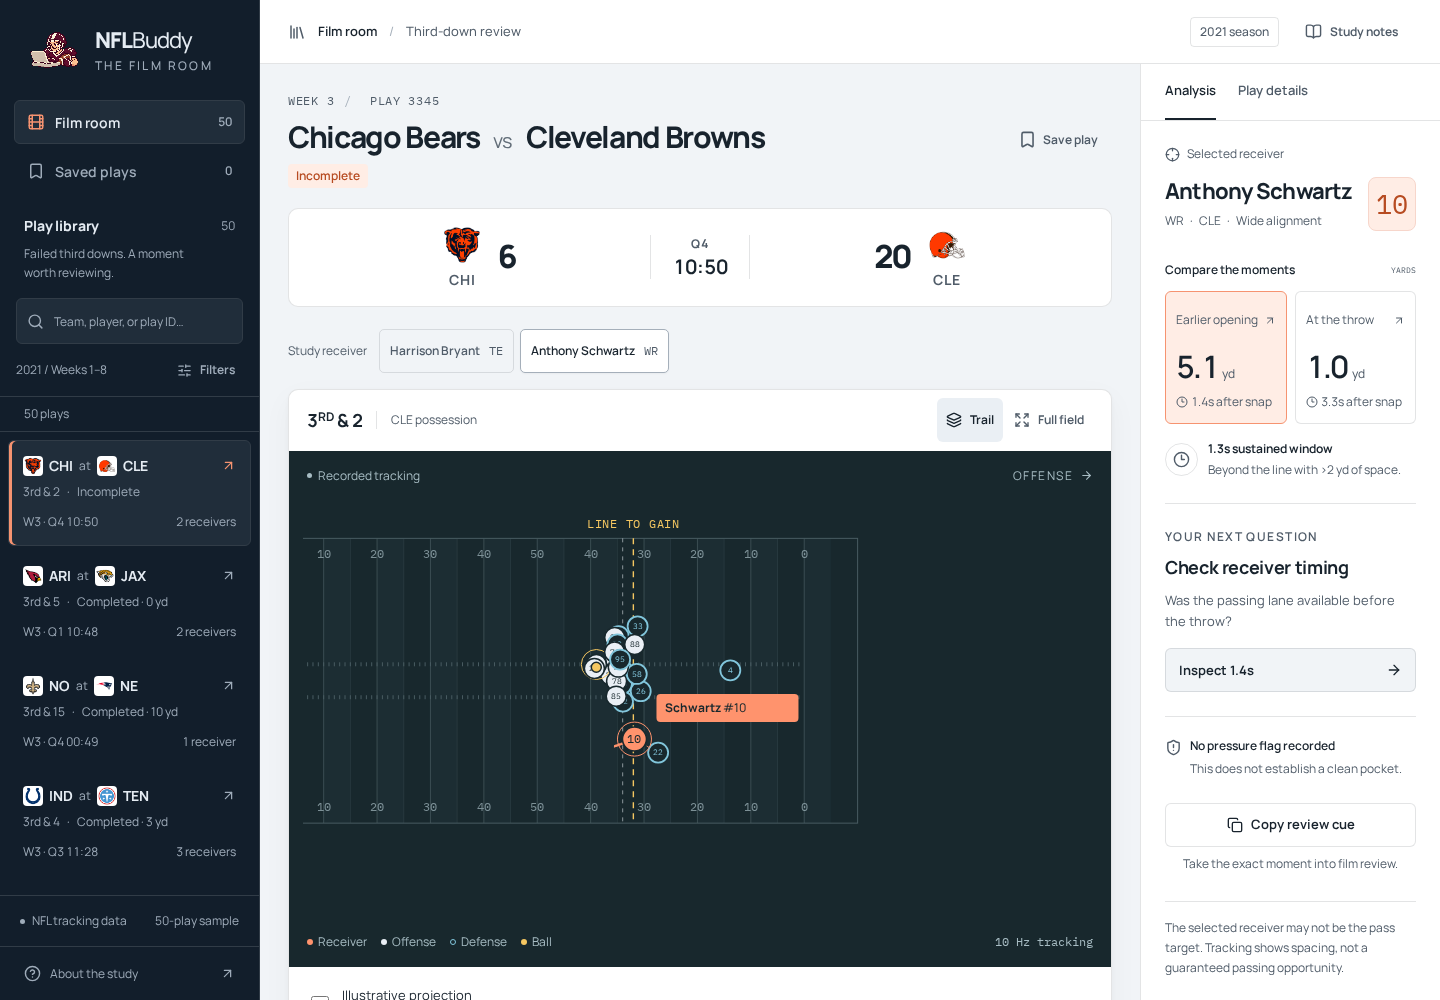
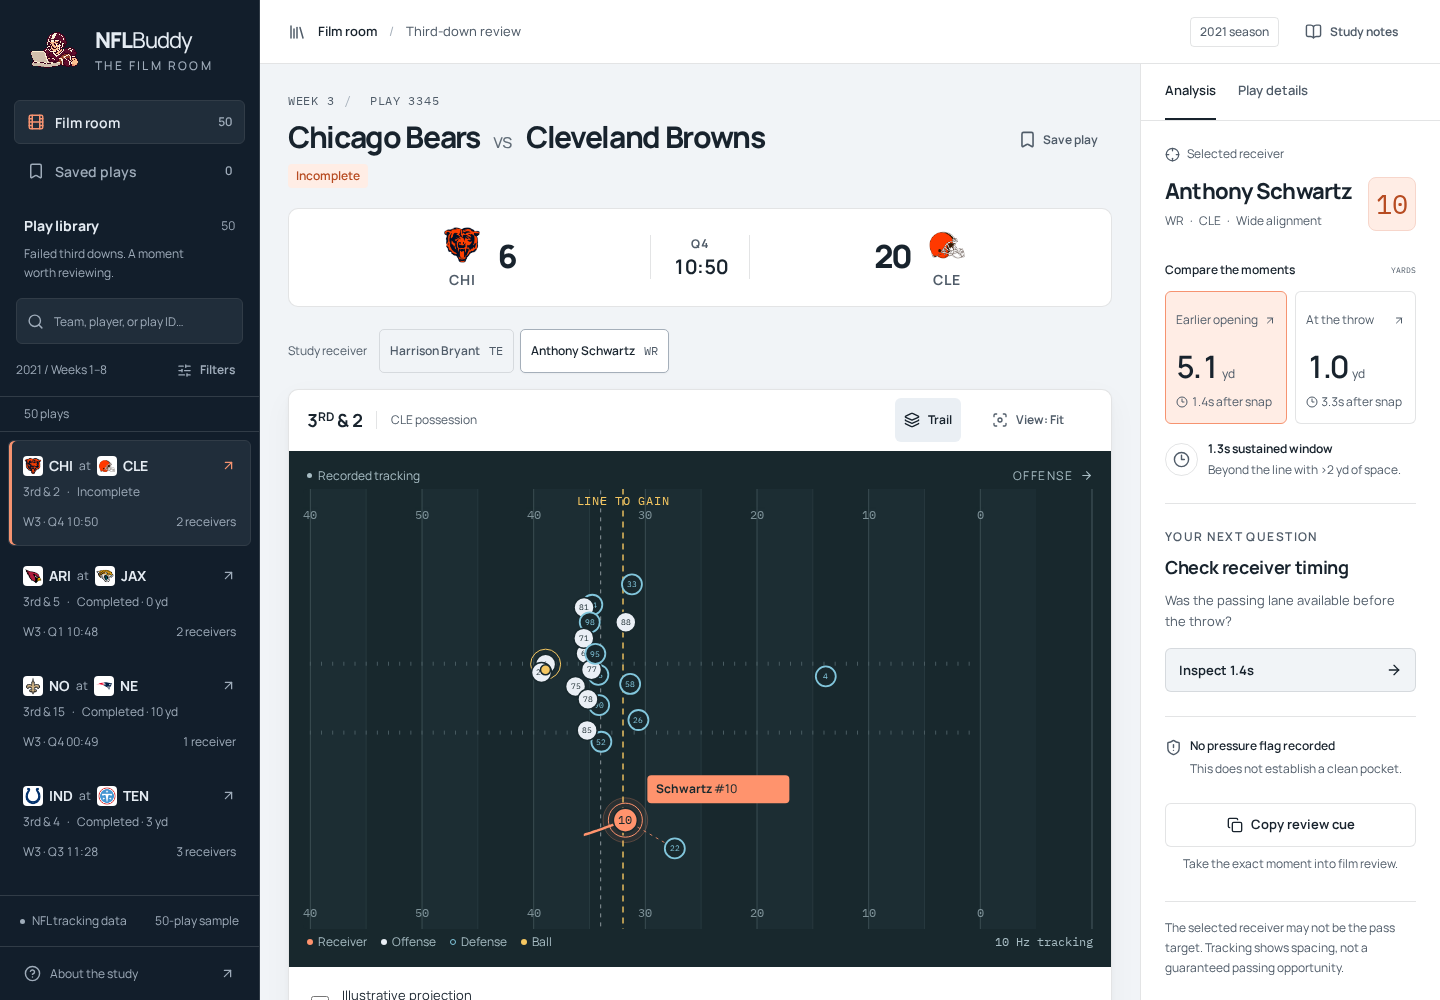
Tighten fitted replay camera and clarify single view toggle

Changed region(s): [[0.3438, 0.589, 0.5625, 0.868], [0.4062, 0.496, 0.4688, 0.589], [0.625, 0.403, 0.75, 0.434]]

diff --git a/web/src/lib/replay.test.ts b/web/src/lib/replay.test.ts
@@ -12,6 +12,25 @@ const source=readFileSync(resolve(root,'scripts/report_client.js'),'utf8');
 const legacy=vm.createContext({recordedCache:new Map()});
 vm.runInContext(source.slice(source.indexOf('function recordedFrames'),source.indexOf('function drawFlight')),legacy);
 describe('tracking and projection migration',()=>{
+ it('fits every recorded player and both situation lines across all 92 cues',()=>{
+   const ratios: number[]=[];
+   for(const replay of replays){
+     const points=recordedFrames(replay).flatMap(f=>f.players), bounds=fieldBounds(replay,false);
+     for(const point of points){expect(point.x).toBeGreaterThan(bounds.x0);expect(point.x).toBeLessThan(bounds.x1);expect(point.y).toBeGreaterThan(bounds.y0);expect(point.y).toBeLessThan(bounds.y1);}
+     for(const x of [replay.line_of_scrimmage,replay.situation.line_to_gain]){expect(x).toBeGreaterThan(bounds.x0);expect(x).toBeLessThan(bounds.x1);}
+     const projection=projectionAt(replay,endTime(replay));
+     const oldPoints=[...points,...(projection?[...projection.sector,projection.projectedReceiver]:[]),{x:replay.line_of_scrimmage,y:0},{x:replay.situation.line_to_gain,y:160/3}];
+     const oldX=Math.max(...oldPoints.map(p=>p.x))-Math.min(...oldPoints.map(p=>p.x))+10;
+     const oldY=Math.max(...oldPoints.map(p=>p.y))-Math.min(...oldPoints.map(p=>p.y))+8;
+     for(const [w,h] of [[750,470],[366,330],[296,330]]){
+       const pad=w<500?36:70;
+       const before=Math.min((w-pad)/oldX,(h-56)/oldY),after=Math.min((w-pad)/(bounds.x1-bounds.x0),(h-56)/(bounds.y1-bounds.y0));
+       expect(after).toBeGreaterThanOrEqual(before-1e-9);ratios.push(after/before);
+     }
+   }
+   ratios.sort((a,b)=>a-b);console.log('Camera scale improvement across 92 cues × 3 sizes:',{minimum:ratios[0],median:ratios[Math.floor(ratios.length/2)],maximum:ratios.at(-1)});
+ });
+
  it('matches the established projection model for all 92 receiver cues',()=>{
    expect(replays).toHaveLength(92);
    for(const replay of replays){
@@ -43,7 +62,7 @@ describe('tracking and projection migration',()=>{
    expect(endTime(replay)).toBe(recordedFrames(replay).at(-1)!.t);
  });
  it('reserves camera bounds for the entire projection in advance',()=>{
-   for(const replay of replays){const bounds=fieldBounds(replay,false),p=projectionAt(replay,endTime(replay));if(!p)continue;
+   for(const replay of replays){const bounds=fieldBounds(replay,false,true),p=projectionAt(replay,endTime(replay));if(!p)continue;
      for(const point of [...p.sector,p.projectedReceiver]){expect(point.x).toBeGreaterThan(bounds.x0);expect(point.x).toBeLessThan(bounds.x1);expect(point.y).toBeGreaterThan(bounds.y0);expect(point.y).toBeLessThan(bounds.y1)}
    }
  });

diff --git a/web/src/components/Field.tsx b/web/src/components/Field.tsx
@@ -7,12 +7,14 @@ export default function Field({
   time,
   full,
   trails,
+  projectionEnabled,
 }: {
   replay: Replay;
   frame: Frame;
   time: number;
   full: boolean;
   trails: boolean;
+  projectionEnabled: boolean;
 }) {
   const clipId = useId().replaceAll(":", "");
   const ref = useRef<SVGSVGElement>(null);
@@ -29,7 +31,10 @@ export default function Field({
     observer.observe(ref.current!);
     return () => observer.disconnect();
   }, []);
-  const bounds = useMemo(() => fieldBounds(replay, full), [replay, full]);
+  const bounds = useMemo(
+    () => fieldBounds(replay, full, projectionEnabled),
+    [replay, full, projectionEnabled],
+  );
   const frames = useMemo(() => recordedFrames(replay), [replay]);
   const projection = projectionAt(replay, time);
   const W = size.width,
@@ -118,14 +123,14 @@ export default function Field({
                 <text
                   className="yard-number"
                   x={xy({ x, y: 0 }).x}
-                  y={topLeft.y + 20}
+                  y={Math.max(30, topLeft.y + 20)}
                 >
                   {Math.min(x - 10, 110 - x)}
                 </text>
                 <text
                   className="yard-number"
                   x={xy({ x, y: 0 }).x}
-                  y={topLeft.y + (160 / 3) * scale - 12}
+                  y={Math.min(H - 12, topLeft.y + (160 / 3) * scale - 12)}
                 >
                   {Math.min(x - 10, 110 - x)}
                 </text>

diff --git a/web/src/lib/replay.ts b/web/src/lib/replay.ts
@@ -41,11 +41,12 @@ export function projectionAt(replay: Replay, time: number) {
   sector.push(ball);
   return { ball, receiver, projectedBall, projectedReceiver, sector, gap: Math.hypot(projectedBall.x - projectedReceiver.x, projectedBall.y - projectedReceiver.y) };
 }
-export function fieldBounds(replay: Replay, full: boolean) {
+export function fieldBounds(replay: Replay, full: boolean, includeProjection = false) {
   const points: Point[] = recordedFrames(replay).flatMap(frame => frame.players);
-  const projection = projectionAt(replay, endTime(replay));
+  const projection = includeProjection ? projectionAt(replay, endTime(replay)) : null;
   if (projection) points.push(...projection.sector, projection.projectedReceiver);
-  points.push({x: replay.line_of_scrimmage, y: 0}, {x: replay.situation.line_to_gain, y: 160 / 3});
+  const centerY = (Math.min(...points.map(p => p.y)) + Math.max(...points.map(p => p.y))) / 2;
+  points.push({x: replay.line_of_scrimmage, y: centerY}, {x: replay.situation.line_to_gain, y: centerY});
   if (full) points.push({x: 0, y: 0}, {x: 120, y: 160 / 3});
   const x0 = Math.min(...points.map(p => p.x)) - 5, x1 = Math.max(...points.map(p => p.x)) + 5;
   const y0 = Math.min(...points.map(p => p.y)) - 4, y1 = Math.max(...points.map(p => p.y)) + 4;

diff --git a/web/src/components/Workspace.tsx b/web/src/components/Workspace.tsx
@@ -199,12 +199,15 @@ export default function Workspace({
               </Button>
               <Button
                 variant="ghost"
-                aria-pressed={full}
-                onClick={() => setFull(!full)}
-                aria-label={full ? "Fit players in view" : "Show full field"}
+                className="camera-toggle"
+                role="switch"
+                aria-label="Full field view"
+                aria-checked={full}
+                title={full ? "Switch to fitted view" : "Switch to full field"}
+                onClick={() => setFull((value) => !value)}
               >
-                {full ? <Focus size={16} /> : <Expand size={16} />}
-                <span>{full ? "Fit view" : "Full field"}</span>
+                {full ? <Expand size={16} /> : <Focus size={16} />}
+                <span>View: {full ? "Full field" : "Fit"}</span>
               </Button>
             </div>
           </div>
@@ -226,6 +229,7 @@ export default function Workspace({
               time={time}
               full={full}
               trails={trails}
+              projectionEnabled={projectionEnabled}
             />
             <div className="field-bottomline">
               <div className="field-legend">

diff --git a/web/tests/app.spec.ts b/web/tests/app.spec.ts
@@ -106,11 +106,15 @@ test("playback, moments, camera and receiver selection work", async ({
   ).toBeVisible();
   await page.getByRole("button", { name: "Pause replay", exact: true }).click();
   await page
-    .getByRole("button", { name: "Show full field", exact: true })
+    .getByRole("switch", { name: "Full field view", exact: true })
     .click();
   await expect(
-    page.getByRole("button", { name: "Fit players in view", exact: true }),
-  ).toHaveAttribute("aria-pressed", "true");
+    page.getByRole("switch", { name: "Full field view", exact: true }),
+  ).toHaveAttribute("aria-checked", "true");
+  await page.getByRole("switch", { name: "Full field view" }).click();
+  await expect(
+    page.getByRole("switch", { name: "Full field view" }),
+  ).toHaveAttribute("aria-checked", "false");
   await page.getByRole("button", { name: "Show receiver trail" }).click();
   await expect(
     page.getByRole("button", { name: "Show receiver trail" }),

diff --git a/web/src/styles.css b/web/src/styles.css
@@ -2212,3 +2212,12 @@ kbd {
   color: var(--muted);
   font-size: var(--text-xs);
 }
+
+.camera-toggle {
+  min-width: 130px;
+}
+@media (max-width: 480px) {
+  .camera-toggle {
+    min-width: 116px;
+  }
+}

diff --git a/README.md b/README.md
@@ -86,14 +86,14 @@ The all-downs spacing-history study has a different question and cohort: 3,598 /
 | **Early ball flight** | See the recorded 0.2–0.5 seconds after release, with solid ball and receiver paths |
 | **Motion projections** | Opt into dotted ball-position envelopes and a straight receiver continuation with **Illustrative projection** |
 | **Receiver separation** | Inspect recorded distance to the nearest defender; the chart ends with tracking and holds its last measured value during projection |
-| **Field views** | Switch between Fit view and Full field with equal yard scales |
+| **Field views** | Use the single **View: Fit / View: Full field** button to switch modes; its label shows the current view, with equal yard scales |
 | **Play-based queue** | Browse 50 sampled plays, switch between qualifying receivers, and filter by week or coverage |
 | **Copy play details** | Copy the selected play, receiver, timestamp, measured spacing and recorded result |
 | **Local use and exports** | Run the app locally and download research CSV/JSON files; the original standalone HTML remains available for offline use |
 
 ### After the throw
 
-Choose **Throw** above the replay slider to play the recorded start of ball flight. Playback stops at the last recorded frame by default. Enable **Illustrative projection** to explore conditional continuation on the same timeline; it does not show the actual catch or outcome. Solid gold and orange paths connect measured ball and selected-receiver samples; animation interpolates between samples. When projection is enabled and tracking ends, a full dotted cone grows from the last measured ball position while a dotted orange path continues the receiver's recent velocity. Other players remain at their last measured positions; the camera keeps the same scale throughout.
+Choose **Throw** above the replay slider to play the recorded start of ball flight. Playback stops at the last recorded frame by default. Enable **Illustrative projection** to explore conditional continuation on the same timeline; it does not show the actual catch or outcome. Solid gold and orange paths connect measured ball and selected-receiver samples; animation interpolates between samples. When projection is enabled and tracking ends, a full dotted cone grows from the last measured ball position while a dotted orange path continues the receiver's recent velocity. Other players remain at their last measured positions. Fit view reserves projection space only when projection is enabled; the camera stays fixed during playback within either mode.
 
 **This is an illustrative projection, not a predicted landing zone or catch probability.** With projection enabled, the timeline continues up to 2 seconds after release; that horizon is chosen for exploration, not estimated from the throw: ball height and vertical velocity are missing. Motion is fitted from the last three consecutive post-release samples; one of the 50 plays has only two samples, so its three receiver cues show recorded motion without a projection. Both central projected positions refer to the same time; the gap does not establish a usable pass, and the selected receiver may not be the target.
 
